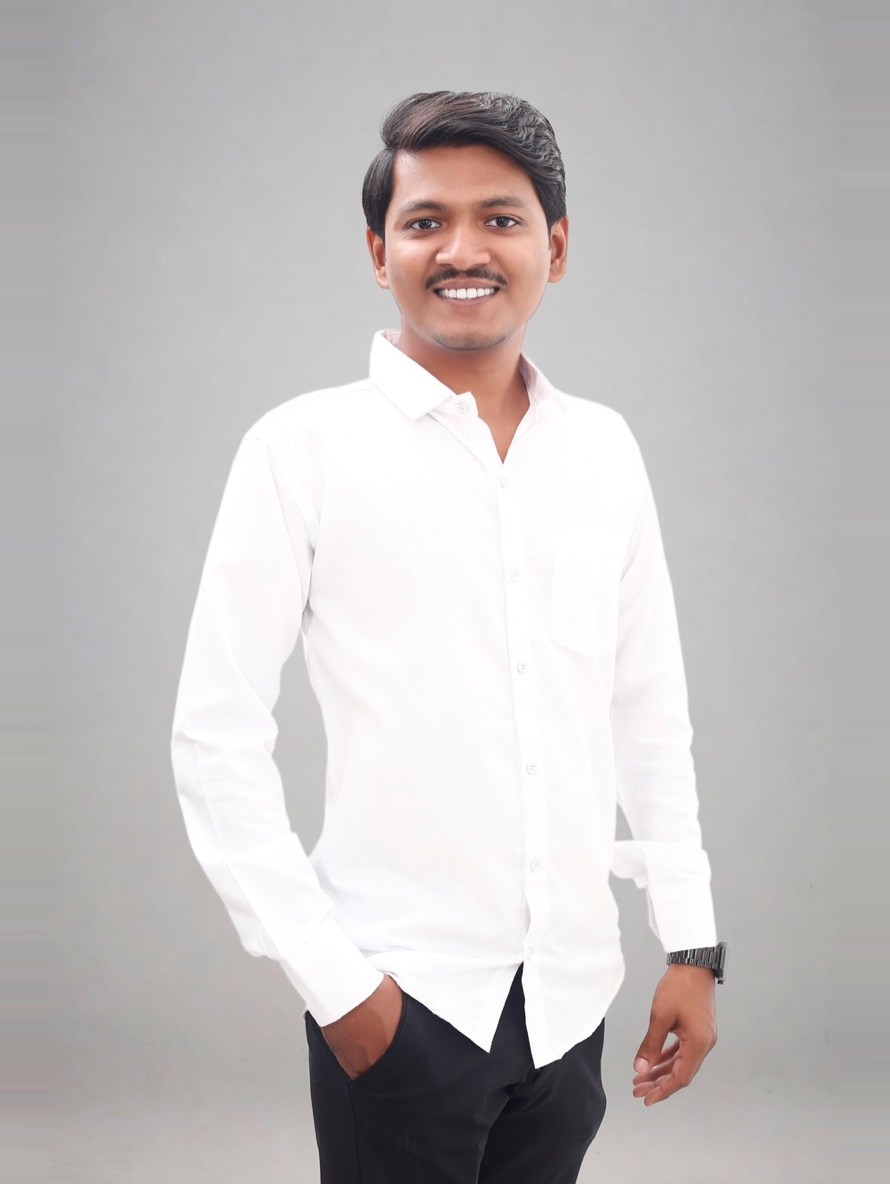
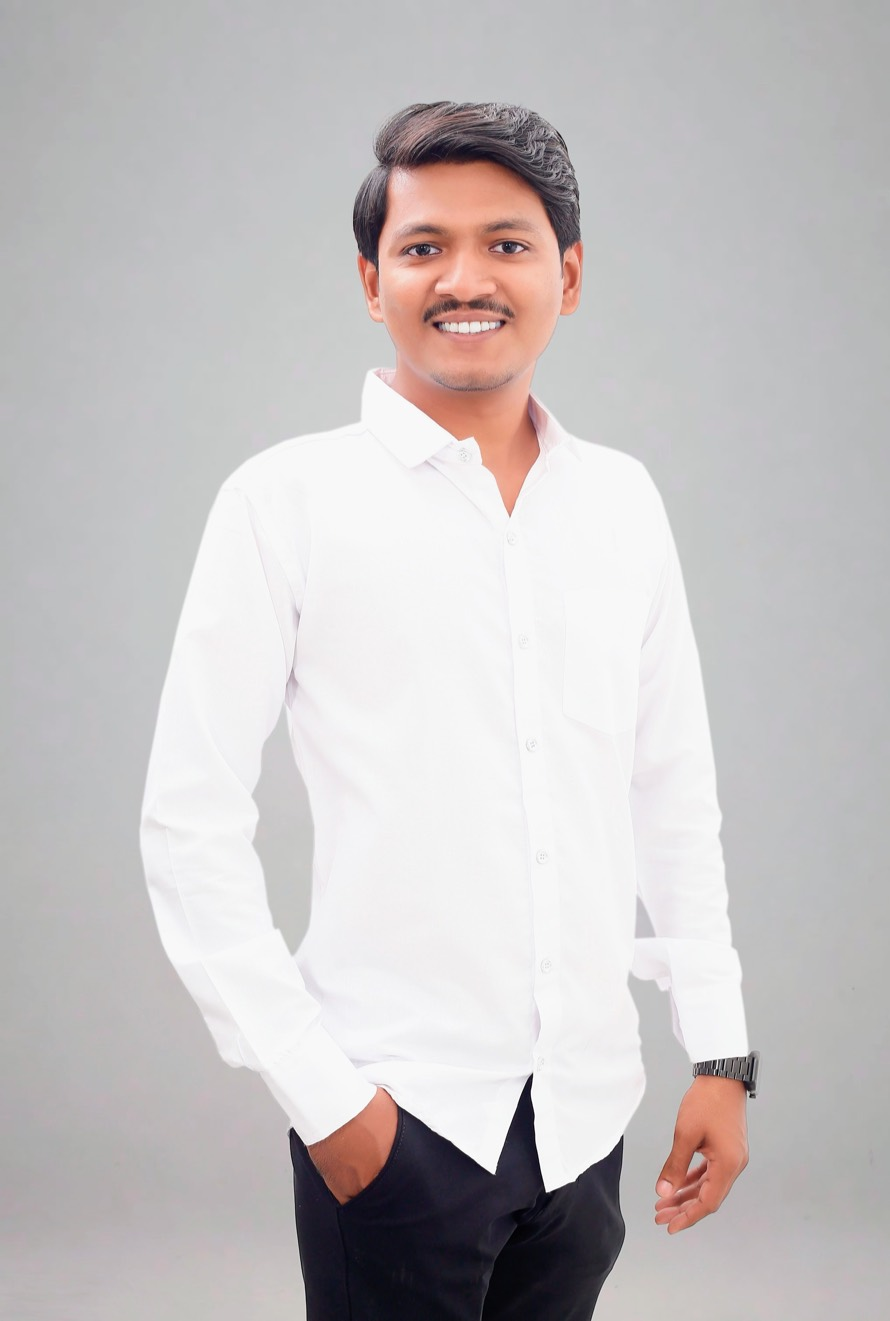
Photo updates

diff --git a/styles.css b/styles.css
@@ -502,16 +502,18 @@ main {
 }
 
 .profile-photo {
-  /* Height is pinned to what the old 4/5 box occupied, so the hero keeps its
-     original proportions. Both files are cut to 890x1184, so one ratio serves
-     every slide, `cover` has nothing to trim, and the frame is identical from
-     shot to shot. Keep new photos to that ratio — pad rather than crop them,
-     the way the studio shot's own grey backdrop was extended sideways. */
-  height: calc(var(--photo-w) * 1.25);
+  /* One box is imposed on both slides so the frame never shifts between shots.
+     2/3 is the ratio the photos themselves are near — 890x1321 and 752x1142 sit
+     within ~1% either side of it — so `cover` has almost nothing to trim and
+     neither shot needs its own `object-position`. Keep new photos to roughly
+     that shape; a squarer one would get cropped top and bottom to fit.
+     The 1.41 multiplier is what holds the rendered width at the ~263px the old
+     4/5 box occupied, so the hero's two columns keep their original balance. */
+  height: calc(var(--photo-w) * 1.41);
   width: auto;
   max-width: 100%;
   margin: 0 auto;
-  aspect-ratio: 890 / 1184;
+  aspect-ratio: 2 / 3;
   grid-area: 1 / 1;
   object-fit: cover;
   object-position: center;

diff --git a/marathi/index.html b/marathi/index.html
@@ -130,7 +130,7 @@
                 srcset="../assets/Biodata_Image-560.jpg 560w, ../assets/Biodata_Image.jpg 890w"
                 sizes="(max-width: 700px) 62vw, 280px"
                 width="890"
-                height="1184"
+                height="1321"
                 alt="यश लोटके"
                 loading="eager"
                 fetchpriority="high"
@@ -138,11 +138,11 @@
               />
               <img
                 class="profile-photo"
-                src="../assets/Biodata_Image_1-560.jpg"
-                srcset="../assets/Biodata_Image_1-560.jpg 560w, ../assets/Biodata_Image_1.jpg 890w"
+                src="../assets/Biodata_Image1-560.jpg"
+                srcset="../assets/Biodata_Image1-560.jpg 560w, ../assets/Biodata_Image1.jpg 752w"
                 sizes="(max-width: 700px) 62vw, 280px"
-                width="890"
-                height="1184"
+                width="752"
+                height="1142"
                 alt=""
                 aria-hidden="true"
                 loading="lazy"

diff --git a/english/index.html b/english/index.html
@@ -130,7 +130,7 @@
                 srcset="../assets/Biodata_Image-560.jpg 560w, ../assets/Biodata_Image.jpg 890w"
                 sizes="(max-width: 700px) 62vw, 280px"
                 width="890"
-                height="1184"
+                height="1321"
                 alt="Yash Lotake"
                 loading="eager"
                 fetchpriority="high"
@@ -138,11 +138,11 @@
               />
               <img
                 class="profile-photo"
-                src="../assets/Biodata_Image_1-560.jpg"
-                srcset="../assets/Biodata_Image_1-560.jpg 560w, ../assets/Biodata_Image_1.jpg 890w"
+                src="../assets/Biodata_Image1-560.jpg"
+                srcset="../assets/Biodata_Image1-560.jpg 560w, ../assets/Biodata_Image1.jpg 752w"
                 sizes="(max-width: 700px) 62vw, 280px"
-                width="890"
-                height="1184"
+                width="752"
+                height="1142"
                 alt=""
                 aria-hidden="true"
                 loading="lazy"
